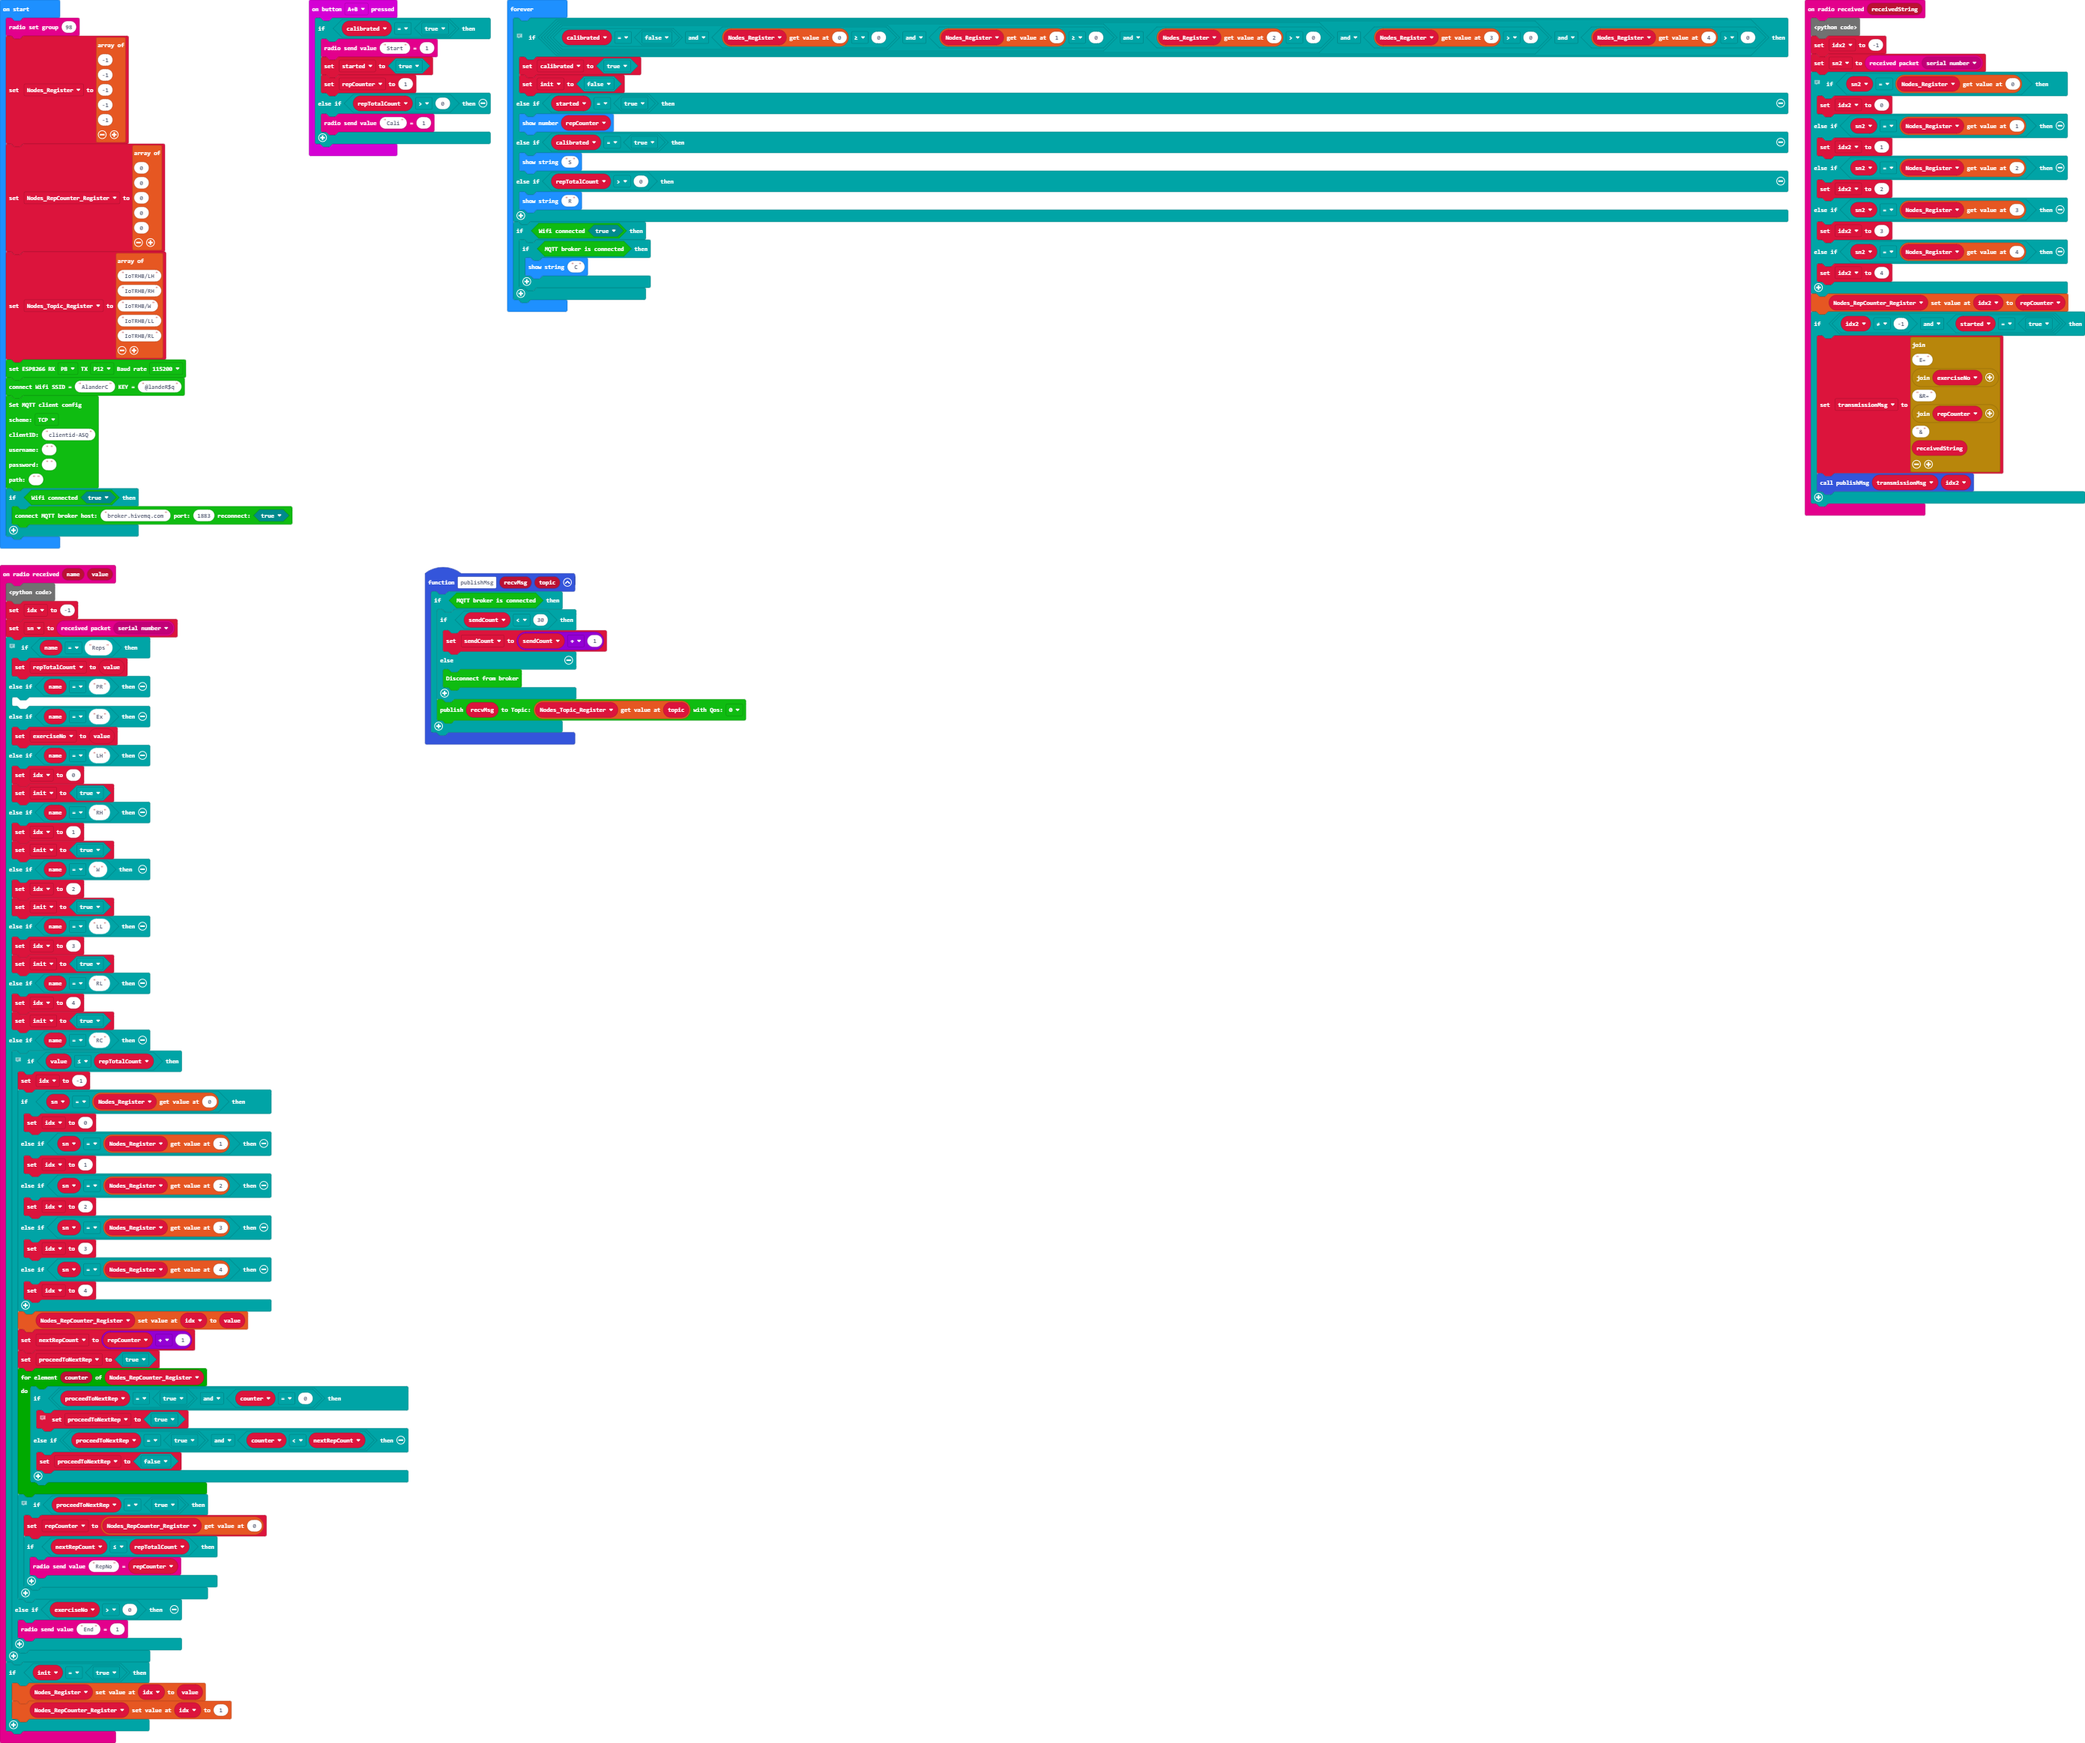
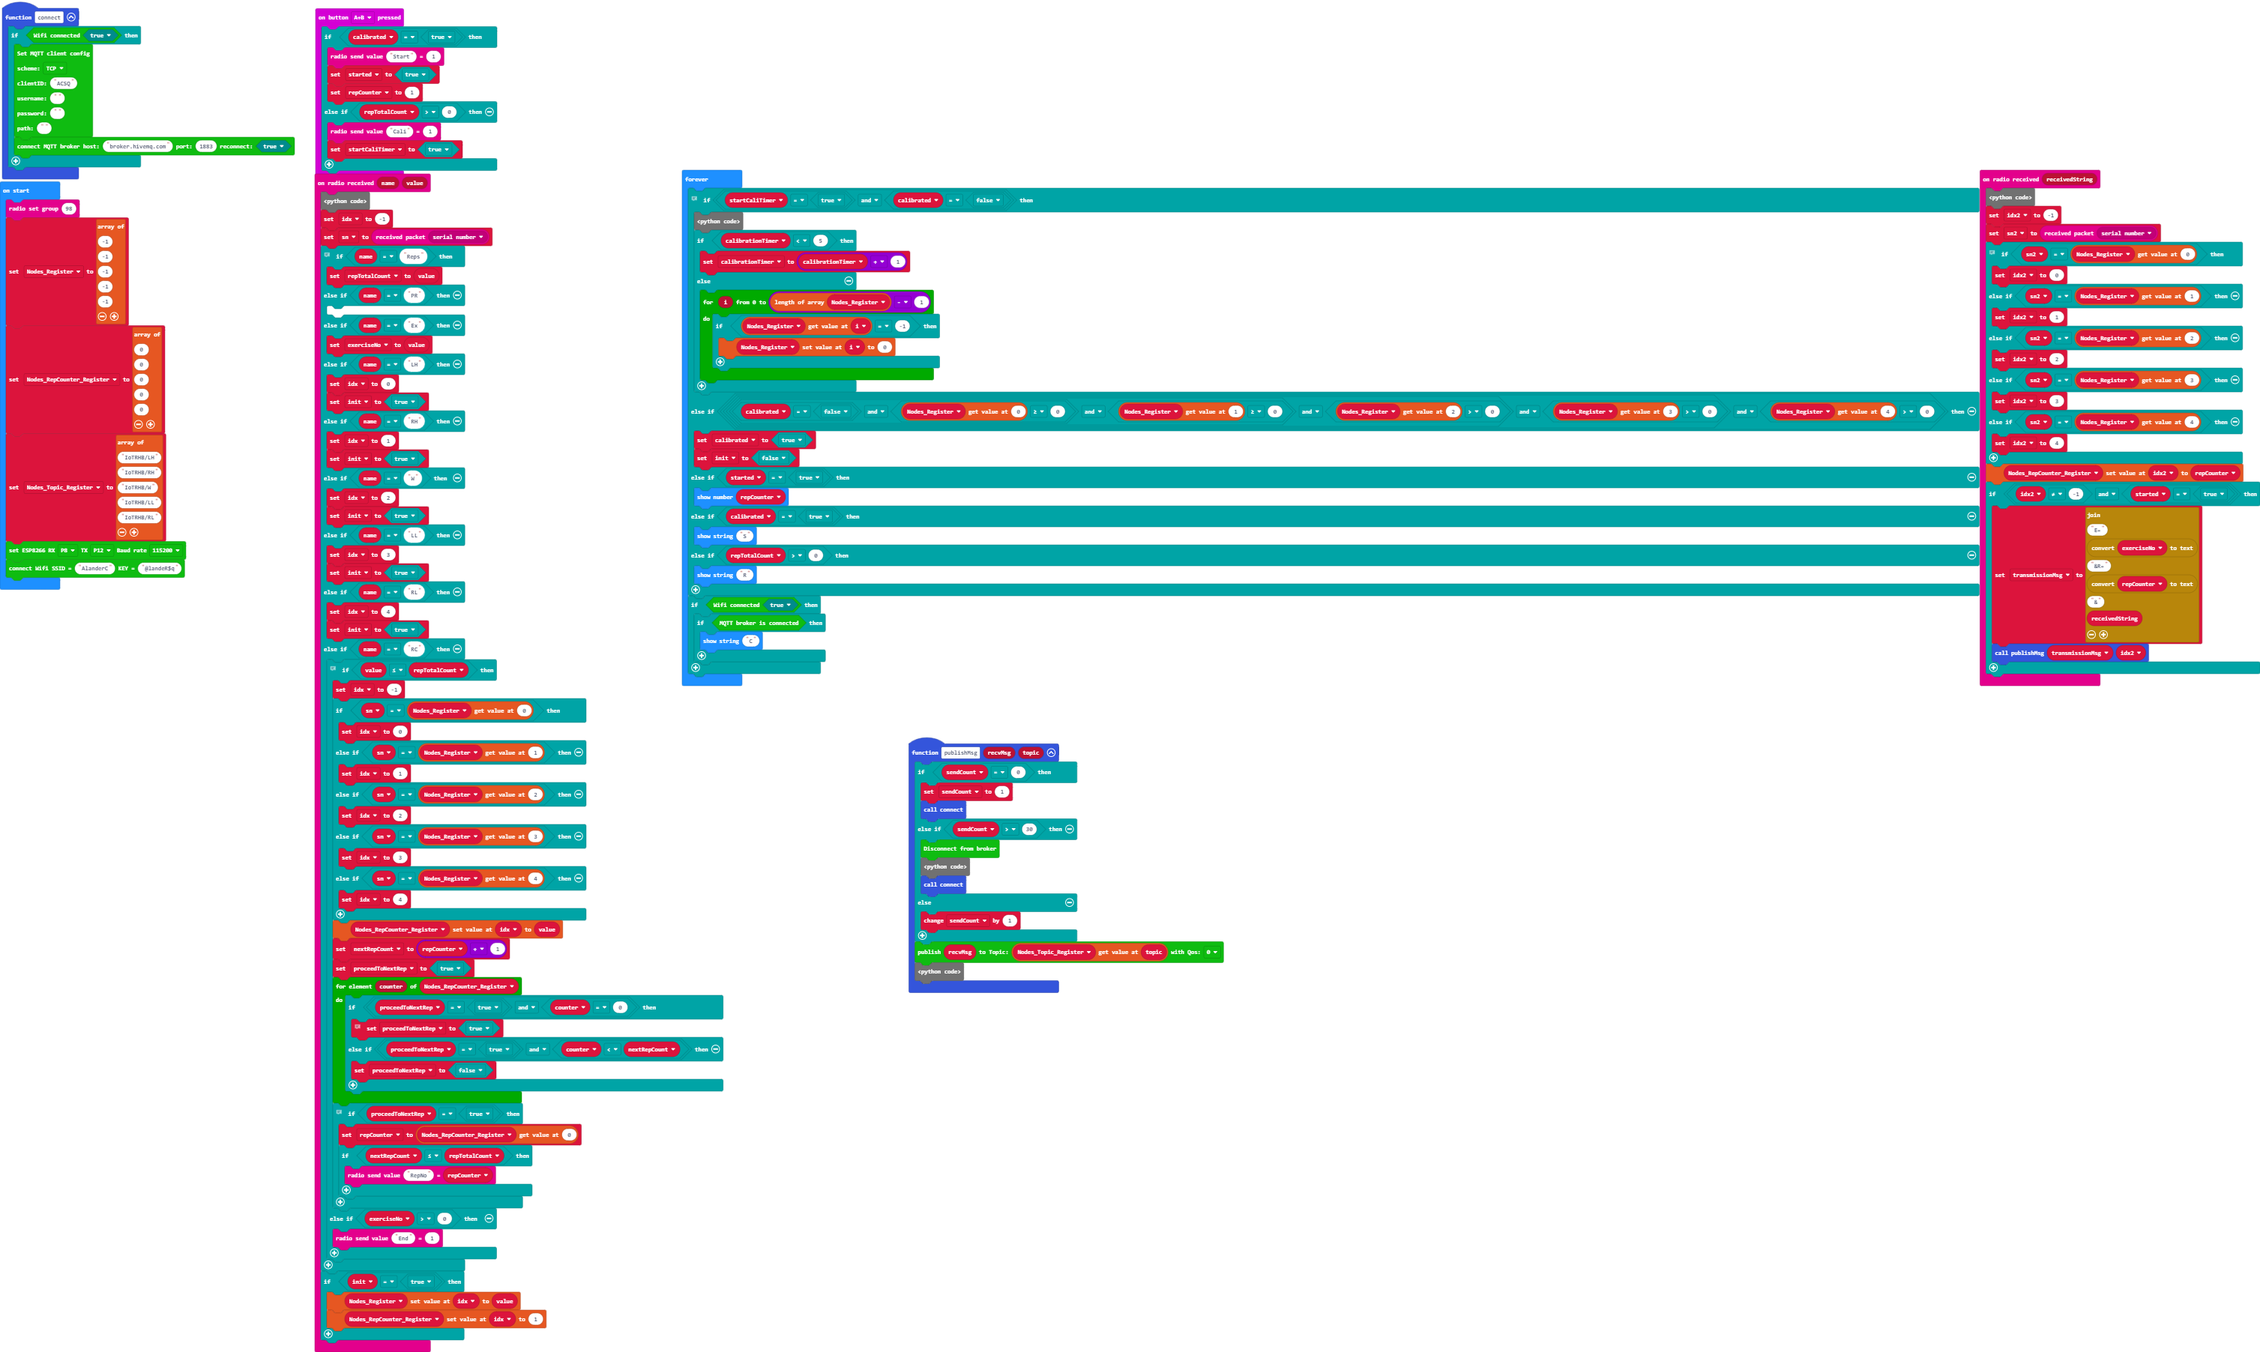
Update main.blocks, main.ts, main.py

diff --git a/main.ts b/main.ts
@@ -1,3 +1,11 @@
+function connect() {
+    if (ESP8266_IoT.wifiState(true)) {
+        ESP8266_IoT.setMQTT(ESP8266_IoT.SchemeList.TCP, "ACSQ", "", "", "")
+        ESP8266_IoT.connectMQTT("broker.hivemq.com", 1883, true)
+    }
+    
+}
+
 input.onButtonPressed(Button.AB, function on_button_pressed_ab() {
     
     if (calibrated == true) {
@@ -6,6 +14,7 @@ input.onButtonPressed(Button.AB, function on_button_pressed_ab() {
         repCounter = 1
     } else if (repTotalCount > 0) {
         radio.sendValue("Cali", 1)
+        startCaliTimer = true
     }
     
 })
@@ -29,7 +38,7 @@ radio.onReceivedString(function on_received_string(receivedString: string) {
     
     Nodes_RepCounter_Register[idx2] = repCounter
     if (idx2 != -1 && started == true) {
-        transmissionMsg = "E=" + ("" + exerciseNo) + "&R=" + ("" + repCounter) + "&" + receivedString
+        transmissionMsg = "E=" + convertToText(exerciseNo) + "&R=" + convertToText(repCounter) + "&" + receivedString
         publishMsg(transmissionMsg, idx2)
     }
     
@@ -113,19 +122,22 @@ radio.onReceivedValue(function on_received_value(name: string, value: number) {
 })
 function publishMsg(recvMsg: string, topic: number) {
     
-    if (ESP8266_IoT.isMqttBrokerConnected()) {
-        if (sendCount < 30) {
-            sendCount = sendCount + 1
-        } else {
-            ESP8266_IoT.breakMQTT()
-            ESP8266_IoT.connectMQTT("broker.hivemq.com", 1883, true)
-        }
-        
-        ESP8266_IoT.publishMqttMessage(recvMsg, Nodes_Topic_Register[topic], ESP8266_IoT.QosList.Qos0)
+    if (sendCount == 0) {
+        sendCount = 1
+        connect()
+    } else if (sendCount > 30) {
+        ESP8266_IoT.breakMQTT()
+        pause(1000)
+        connect()
+    } else {
+        sendCount += 1
     }
     
+    ESP8266_IoT.publishMqttMessage(recvMsg, Nodes_Topic_Register[topic], ESP8266_IoT.QosList.Qos0)
+    pause(1000)
 }
 
+let calibrationTimer = 0
 let sendCount = 0
 let nextRepCount = 0
 let init = false
@@ -134,6 +146,7 @@ let idx = 0
 let exerciseNo = 0
 let sn2 = 0
 let idx2 = 0
+let startCaliTimer = false
 let repCounter = 0
 let started = false
 let repTotalCount = 0
@@ -147,15 +160,26 @@ Nodes_RepCounter_Register = [0, 0, 0, 0, 0]
 Nodes_Topic_Register = ["IoTRHB/LH", "IoTRHB/RH", "IoTRHB/W", "IoTRHB/LL", "IoTRHB/RL"]
 ESP8266_IoT.initWIFI(SerialPin.P8, SerialPin.P12, BaudRate.BaudRate115200)
 ESP8266_IoT.connectWifi("AlanderC", "@landeR$q")
-ESP8266_IoT.setMQTT(ESP8266_IoT.SchemeList.TCP, "clientid-ASQ", "", "", "")
-if (ESP8266_IoT.wifiState(true)) {
-    ESP8266_IoT.connectMQTT("broker.hivemq.com", 1883, true)
-}
-
 basic.forever(function on_forever() {
+    let i: number;
     
     //  Index ENUM: LH, RH, W, LL, RL
-    if (calibrated == false && Nodes_Register[0] >= 0 && Nodes_Register[1] >= 0 && Nodes_Register[2] > 0 && Nodes_Register[3] > 0 && Nodes_Register[4] > 0) {
+    if (startCaliTimer == true && calibrated == false) {
+        pause(1000)
+        if (calibrationTimer < 5) {
+            calibrationTimer = calibrationTimer + 1
+        } else {
+            i = 0
+            while (i <= Nodes_Register.length - 1) {
+                if (Nodes_Register[i] == -1) {
+                    Nodes_Register[i] = 0
+                }
+                
+                i += 1
+            }
+        }
+        
+    } else if (calibrated == false && Nodes_Register[0] >= 0 && Nodes_Register[1] >= 0 && Nodes_Register[2] > 0 && Nodes_Register[3] > 0 && Nodes_Register[4] > 0) {
         calibrated = true
         init = false
     } else if (started == true) {

diff --git a/main.py b/main.py
@@ -1,11 +1,17 @@
+def connect():
+    if ESP8266_IoT.wifi_state(True):
+        ESP8266_IoT.set_mqtt(ESP8266_IoT.SchemeList.TCP, "ACSQ", "", "", "")
+        ESP8266_IoT.connect_mqtt("broker.hivemq.com", 1883, True)
+
 def on_button_pressed_ab():
-    global started, repCounter
+    global started, repCounter, startCaliTimer
     if calibrated == True:
         radio.send_value("Start", 1)
         started = True
         repCounter = 1
     elif repTotalCount > 0:
         radio.send_value("Cali", 1)
+        startCaliTimer = True
 input.on_button_pressed(Button.AB, on_button_pressed_ab)
 
 def on_received_string(receivedString):
@@ -25,7 +31,7 @@ def on_received_string(receivedString):
         idx2 = 4
     Nodes_RepCounter_Register[idx2] = repCounter
     if idx2 != -1 and started == True:
-        transmissionMsg = "E=" + str(exerciseNo) + "&R=" + str(repCounter) + "&" + receivedString
+        transmissionMsg = "E=" + convert_to_text(exerciseNo) + "&R=" + convert_to_text(repCounter) + "&" + receivedString
         publishMsg(transmissionMsg, idx2)
 radio.on_received_string(on_received_string)
 
@@ -93,16 +99,23 @@ radio.on_received_value(on_received_value)
 
 def publishMsg(recvMsg: str, topic: number):
     global sendCount
-    if ESP8266_IoT.is_mqtt_broker_connected():
-        if sendCount < 30:
-            sendCount = sendCount + 1
-        else:
-            ESP8266_IoT.break_mqtt()
-            ESP8266_IoT.connect_mqtt("broker.hivemq.com", 1883, True)
-            
-        ESP8266_IoT.publish_mqtt_message(recvMsg,
-            Nodes_Topic_Register[topic],
-            ESP8266_IoT.QosList.QOS0)
+    if sendCount == 0:
+        sendCount = 1
+        connect()
+    elif sendCount > 30:
+        ESP8266_IoT.break_mqtt()
+        pause(1000)
+        connect()
+    else:
+        sendCount += 1
+
+    ESP8266_IoT.publish_mqtt_message(recvMsg,
+        Nodes_Topic_Register[topic],
+        ESP8266_IoT.QosList.QOS0)
+        
+    pause(1000)
+
+calibrationTimer = 0
 sendCount = 0
 nextRepCount = 0
 init = False
@@ -111,6 +124,7 @@ idx = 0
 exerciseNo = 0
 sn2 = 0
 idx2 = 0
+startCaliTimer = False
 repCounter = 0
 started = False
 repTotalCount = 0
@@ -128,14 +142,21 @@ Nodes_Topic_Register = ["IoTRHB/LH",
     "IoTRHB/RL"]
 ESP8266_IoT.init_wifi(SerialPin.P8, SerialPin.P12, BaudRate.BAUD_RATE115200)
 ESP8266_IoT.connect_wifi("AlanderC", "@landeR$q")
-ESP8266_IoT.set_mqtt(ESP8266_IoT.SchemeList.TCP, "clientid-ASQ", "", "", "")
-if ESP8266_IoT.wifi_state(True):
-    ESP8266_IoT.connect_mqtt("broker.hivemq.com", 1883, True)
 
 def on_forever():
-    global calibrated, init
+    global calibrationTimer, calibrated, init
     # Index ENUM: LH, RH, W, LL, RL
-    if calibrated == False and Nodes_Register[0] >= 0 and Nodes_Register[1] >= 0 and Nodes_Register[2] > 0 and Nodes_Register[3] > 0 and Nodes_Register[4] > 0:
+    if startCaliTimer == True and calibrated == False:
+        pause(1000)
+        if calibrationTimer < 5:
+            calibrationTimer = calibrationTimer + 1
+        else:
+            i = 0
+            while i <= len(Nodes_Register) - 1:
+                if Nodes_Register[i] == -1:
+                    Nodes_Register[i] = 0
+                i += 1
+    elif calibrated == False and Nodes_Register[0] >= 0 and Nodes_Register[1] >= 0 and Nodes_Register[2] > 0 and Nodes_Register[3] > 0 and Nodes_Register[4] > 0:
         calibrated = True
         init = False
     elif started == True:
